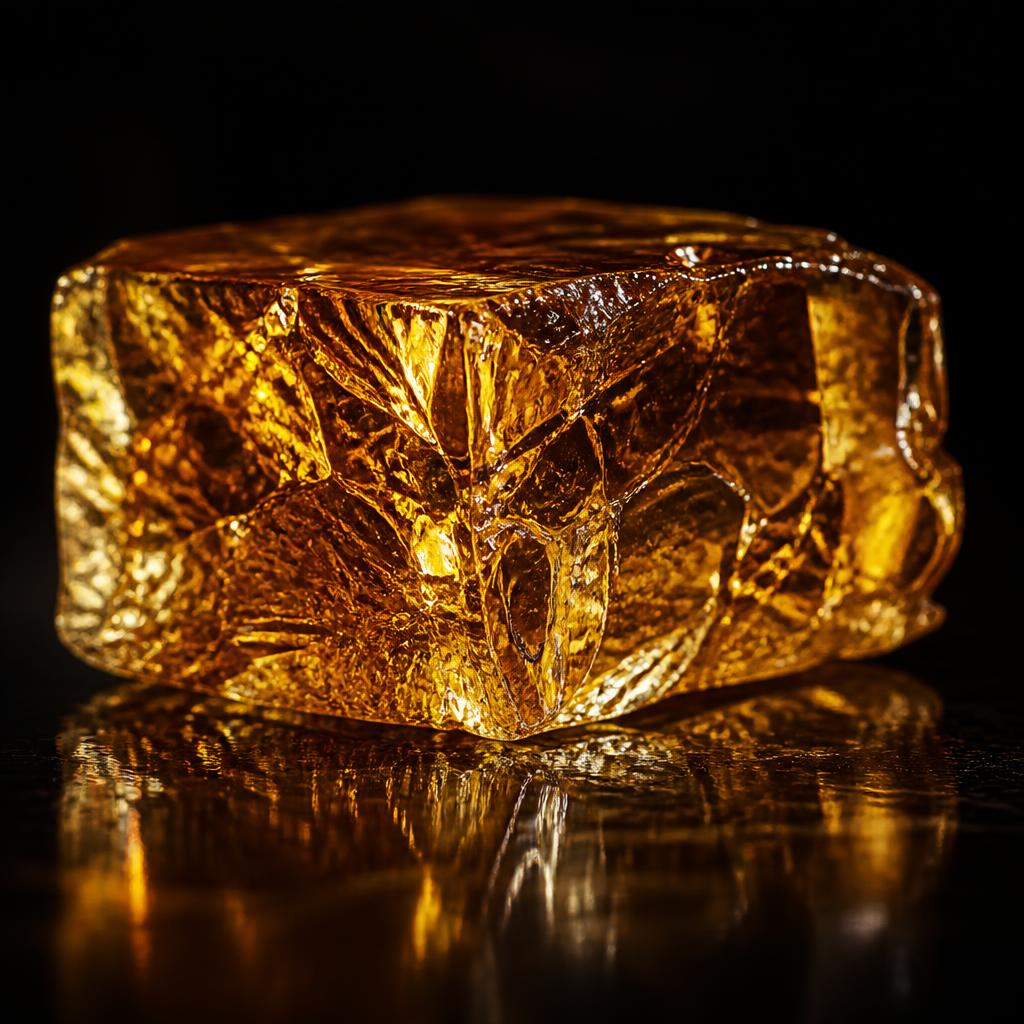
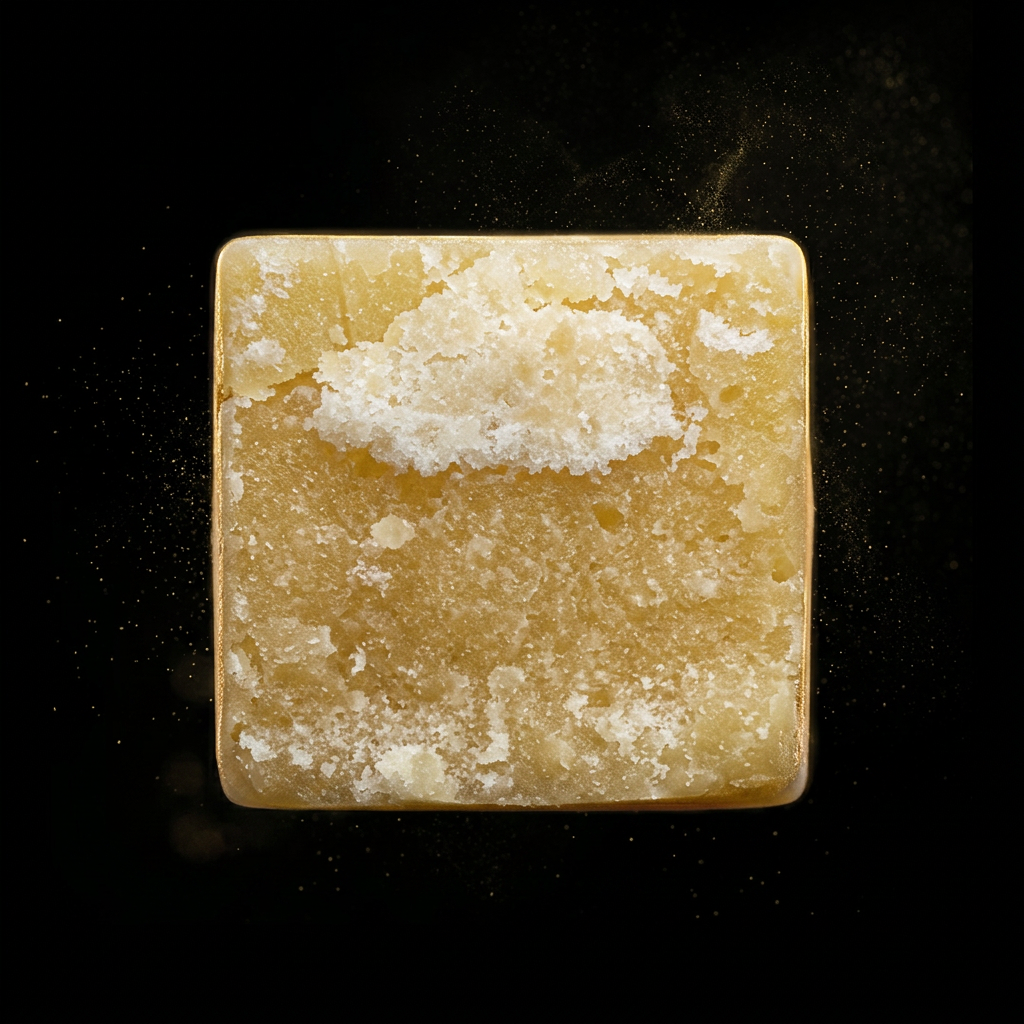
Changes

diff --git a/.lovable/plan.md b/.lovable/plan.md
@@ -1,47 +1,21 @@
+## Objectif
+Le rendu actuel de Haribo est une résine ambrée sombre imaginée — trop loin du vrai produit. On repart d'une frame réelle de `HARIBO.mp4` pour garder la couleur (jaune pâle doré, texture friable/cristalline type rosin) et le format (bloc rectangulaire), puis on la restyle en studio noir avec particules dorées pour rester dans la DA du site.
 
-## Correction Haribo — Prix + Visuel
+## Étapes
 
-### 1. Grille de prix (retenue : 15/35/60/100)
+1. **Choix de la frame source**
+   - Utiliser `f_25.jpg` (macro nette du bloc, couleur jaune-doré authentique, texture cristalline visible). Frame alternative: `f_15.jpg` si on préfère montrer une découpe en deux blocs.
 
-Ajouter Haribo à la grille fixe par produit dans `src/lib/pricing.ts`. Cette grille prime déjà sur les tiers Groupe B (voir `FORCE_NOIRE_PRICE_GRID` : quand un produit y figure, `calculatePrice` et `getLowestPricePerGram` utilisent la grille au lieu du dégressif).
+2. **Édition via `imagegen--edit_image` (Nano Banana 2, pro-level)**
+   - Input: la frame réelle extraite.
+   - Prompt: garder la couleur/matière/texture exactes du bloc (jaune pâle doré, surface cristalline granuleuse, éclats blancs), retirer les mains/outils/watermark, recadrer le bloc au centre, remplacer le fond par un fond noir profond studio type haute joaillerie, ajouter un éclairage chiaroscuro doux avec reflets dorés subtils sur les arêtes, particules/poussière d'or fines en suspension autour, style photo produit cohérent avec Ice O Lator / Golden CBN / Elixir Noir.
+   - Output: `src/assets/resins/haribo-premium.jpg` (écrase l'actuel, 1024×1024).
 
-Grille Haribo (TTC) :
-```
-1g   →  15 €
-2.5g →  35 €
-5g   →  60 €
-10g  → 100 €
-```
-Au-delà de 10g : base 10 €/g (100 ÷ 10) + dégressif additionnel léger déjà en place dans la fonction (−10 % à 25g, −15 % à 50g, −20 % à 100g).
+3. **Aucun autre changement**
+   - Le prix (15/35/60/100) et l'import restent tels quels.
+   - Pas de modif DB, ni du code produit.
 
-Renommage minimal : la constante `FORCE_NOIRE_PRICE_GRID` sera renommée `PRODUCT_PRICE_GRID` (plus neutre, car elle sert désormais aussi à Nectar Divin). Toutes les références internes (`calculateForceNoirePrice`, `getLowestPricePerGram`, `calculatePrice`, `calculateItemPrice`, `getDiscountLabel`) sont mises à jour dans le même fichier. La fonction `calculateForceNoirePrice` reste appelée ainsi (comportement identique), pour éviter de toucher d'autres fichiers.
-
-Vérification affichage : le "À partir de" utilisera `getLowestPricePerGram` → grille 100g extrapolée = 10 €/g × (1 − 0.20) = **8 €/g** affiché.
-
-### 2. Visuel produit (retenu : nouvelle photo studio premium)
-
-Générer un nouveau rendu **haute joaillerie** cohérent avec Ice O Lator / Golden CBN / Nuage de Mousseux :
-
-- Fond noir profond, éclairage dramatique clair-obscur, reflets dorés subtils.
-- Sujet : bloc de résine ambrée-dorée translucide (rappel de la couleur du plan HARIBO), texture cristalline/laquée, mise en scène type nature morte de joaillerie.
-- Cadrage carré (1024×1024), profondeur de champ courte, léger reflet au sol.
-- Aucun texte, aucun logo, aucune marque.
-- Style et palette calés sur les autres résines premium du catalogue.
-
-Sortie : `src/assets/resins/haribo-premium.jpg` (image standard, pas d'asset CDN — mêmes conventions que les autres résines du catalogue statique).
-
-L'ancien pointeur CDN `src/assets/resins/haribo.jpg.asset.json` est supprimé (avec `lovable-assets delete` pour retirer aussi le binaire du CDN) puisqu'inutilisé.
-
-### 3. Synchronisation
-
-- `src/data/products.ts` : remplacer `image: hariboAsset.url` par un import du nouveau fichier `haribo-premium.jpg`, retirer l'import du pointeur JSON.
-- `public.products.image_url` en base : mettre à jour vers le chemin du nouvel asset via `supabase--insert` (UPDATE simple).
-- Aucun autre changement (thème Nectar Divin, badge, catégorie, description, catalogue → déjà en place).
-
-### Fichiers touchés
-
-- `src/lib/pricing.ts` — ajout entrée grille Haribo (+ renommage interne facultatif).
-- `src/data/products.ts` — swap de l'import image.
-- `src/assets/resins/haribo-premium.jpg` — nouveau visuel généré.
-- `src/assets/resins/haribo.jpg.asset.json` — supprimé + purge CDN.
-- Table `products` — UPDATE du `image_url` de la ligne `haribo`.
+## Détails techniques
+- Fichier réécrit: `src/assets/resins/haribo-premium.jpg` via `imagegen--edit_image` avec `image_paths: ["/tmp/haribo/f_25.jpg"]`.
+- Modèle: tier `premium` (meilleure fidélité photo + gestion des textures fines).
+- Après génération je vérifie visuellement le rendu avant de conclure.
